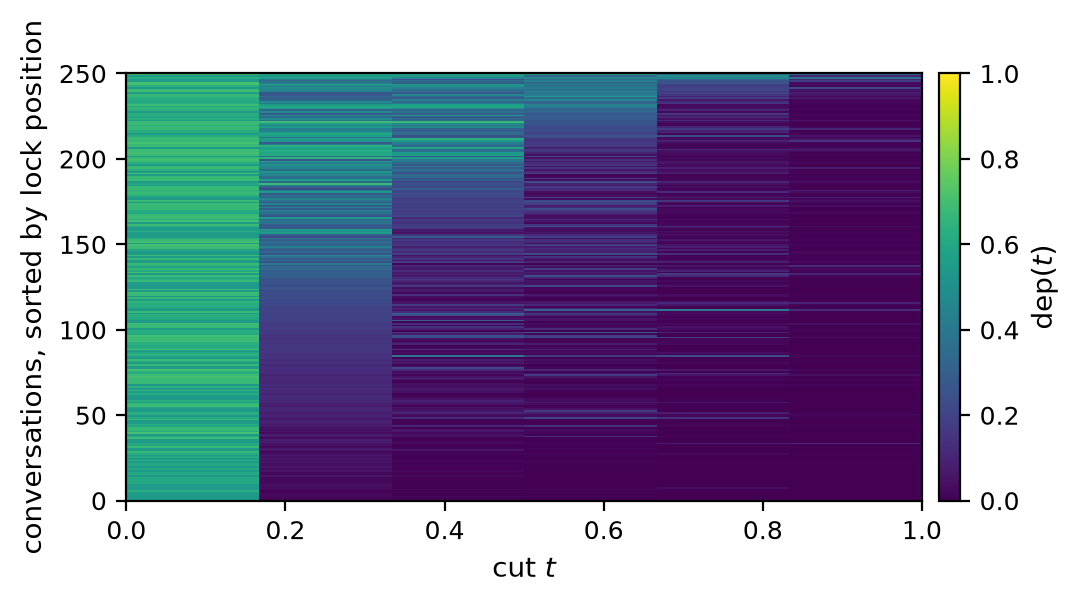
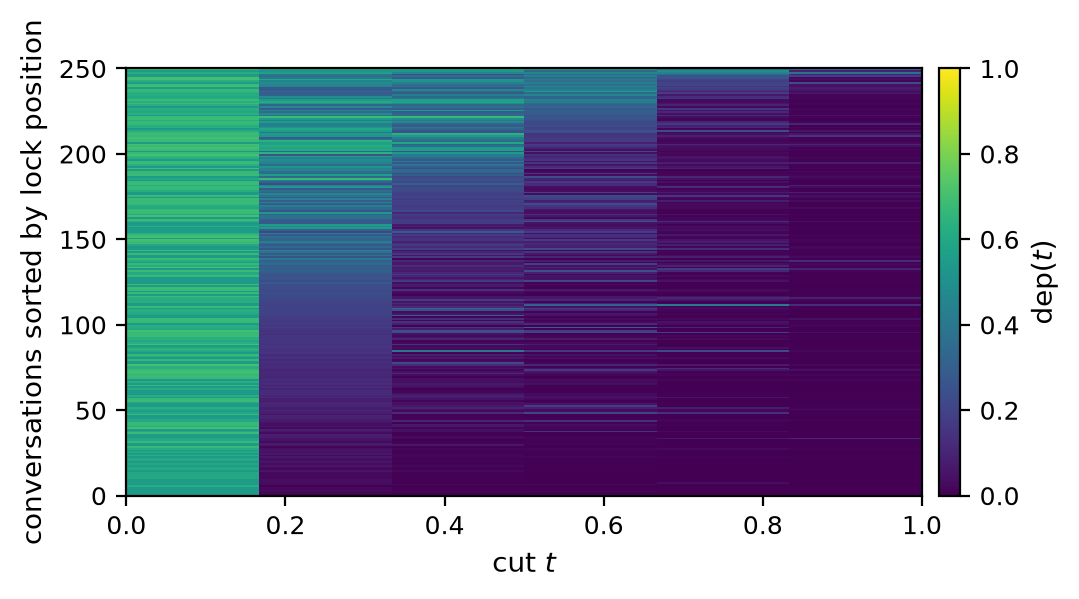
Drop the comma from figure 3's y-axis label
'conversations, sorted by lock position' was the only axis label in the paper
set carrying a comma. Every other one is a bare noun phrase, so it read as an
aside where the rest read as labels.

diff --git a/figures/paper_f2_dep.py b/figures/paper_f2_dep.py
@@ -60,7 +60,7 @@ im = ax.imshow(arr[order], aspect="auto", origin="lower", cmap="viridis",
                vmin=0, vmax=1, interpolation="nearest",
                extent=[grid[0], grid[-1], 0, len(U)])
 ax.set_xlabel("cut $t$")
-ax.set_ylabel("conversations, sorted by lock position")
+ax.set_ylabel("conversations sorted by lock position")
 ax.set_xticks(grid)
 cb = fig.colorbar(im, ax=ax, fraction=0.035, pad=0.02)
 cb.set_label("dep($t$)")
